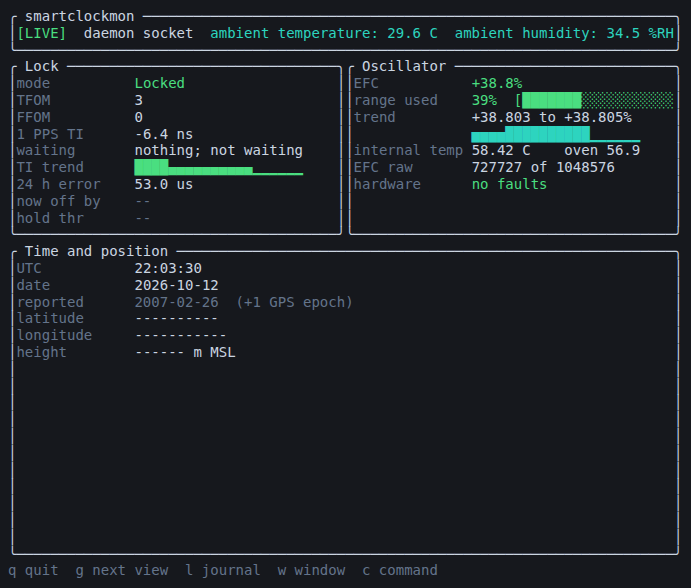
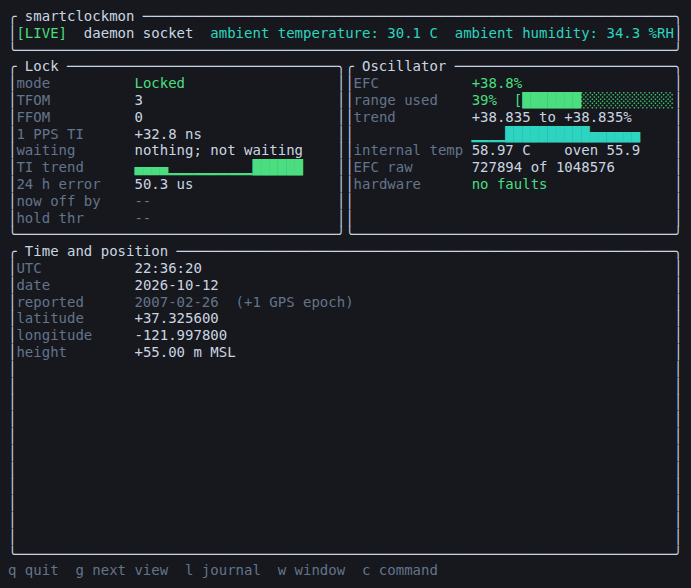
Show the firmware's Santa Clara position in the monitor's screenshot
The monitor's position lines carry the initial position the Z380x and
58503A 3633 firmware sends its GPS engine, at HP in Santa Clara, in
place of the bench's.  The correlation screenshot is six hours of the
58503A's EFC against ambient temperature; --only shoots chosen pages.

diff --git a/README.md b/README.md
@@ -9,11 +9,13 @@ over a serial port.
 | | |
 | - | - |
 | ![The status page: the receiver's screen beside a sky plot](docs/images/web-status.png) | ![The stability page: MDEV, ADEV and TDEV with one-sigma bands](docs/images/web-stability.png) |
-| ![The compare page: three receivers on one time axis](docs/images/web-compare.png) | ![The correlation page: one receiver's EFC against another's, and r as one is moved against the other](docs/images/web-correlation.png) |
-| ![The terminal monitor's dashboard, the position blanked](docs/images/tui-dashboard.png) | |
+| ![The compare page: three receivers on one time axis](docs/images/web-compare.png) | ![The correlation page: EFC against ambient temperature, and r as one is moved against the other](docs/images/web-correlation.png) |
+| ![The terminal monitor's dashboard](docs/images/tui-dashboard.png) | |
 
 The history pages are shown from the bench's logs, without the live
-strip; the status page is shown against the simulator.  `make screenshots`
+strip; the status page is shown against the simulator.  The monitor's
+position is the one the firmware starts its GPS engine at: HP, Santa
+Clara.  `make screenshots`
 takes them all again (`tools/screenshots.mjs`).
 
 ## Firmware study
